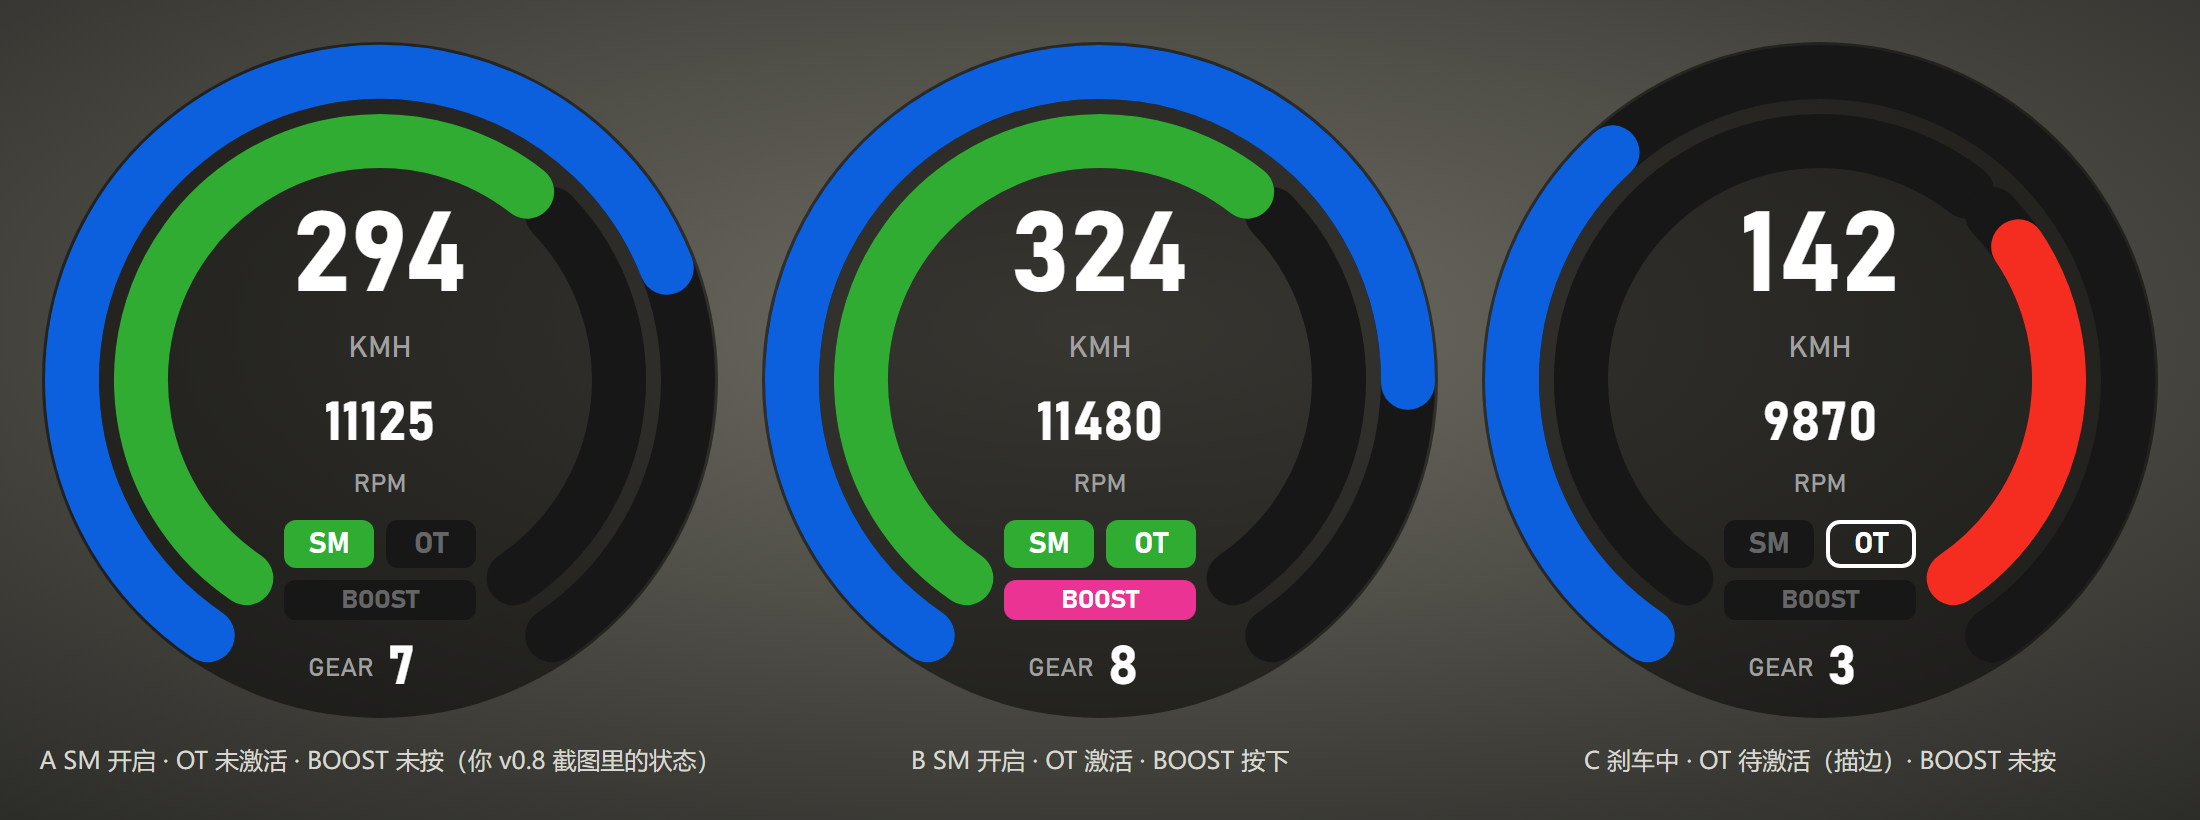
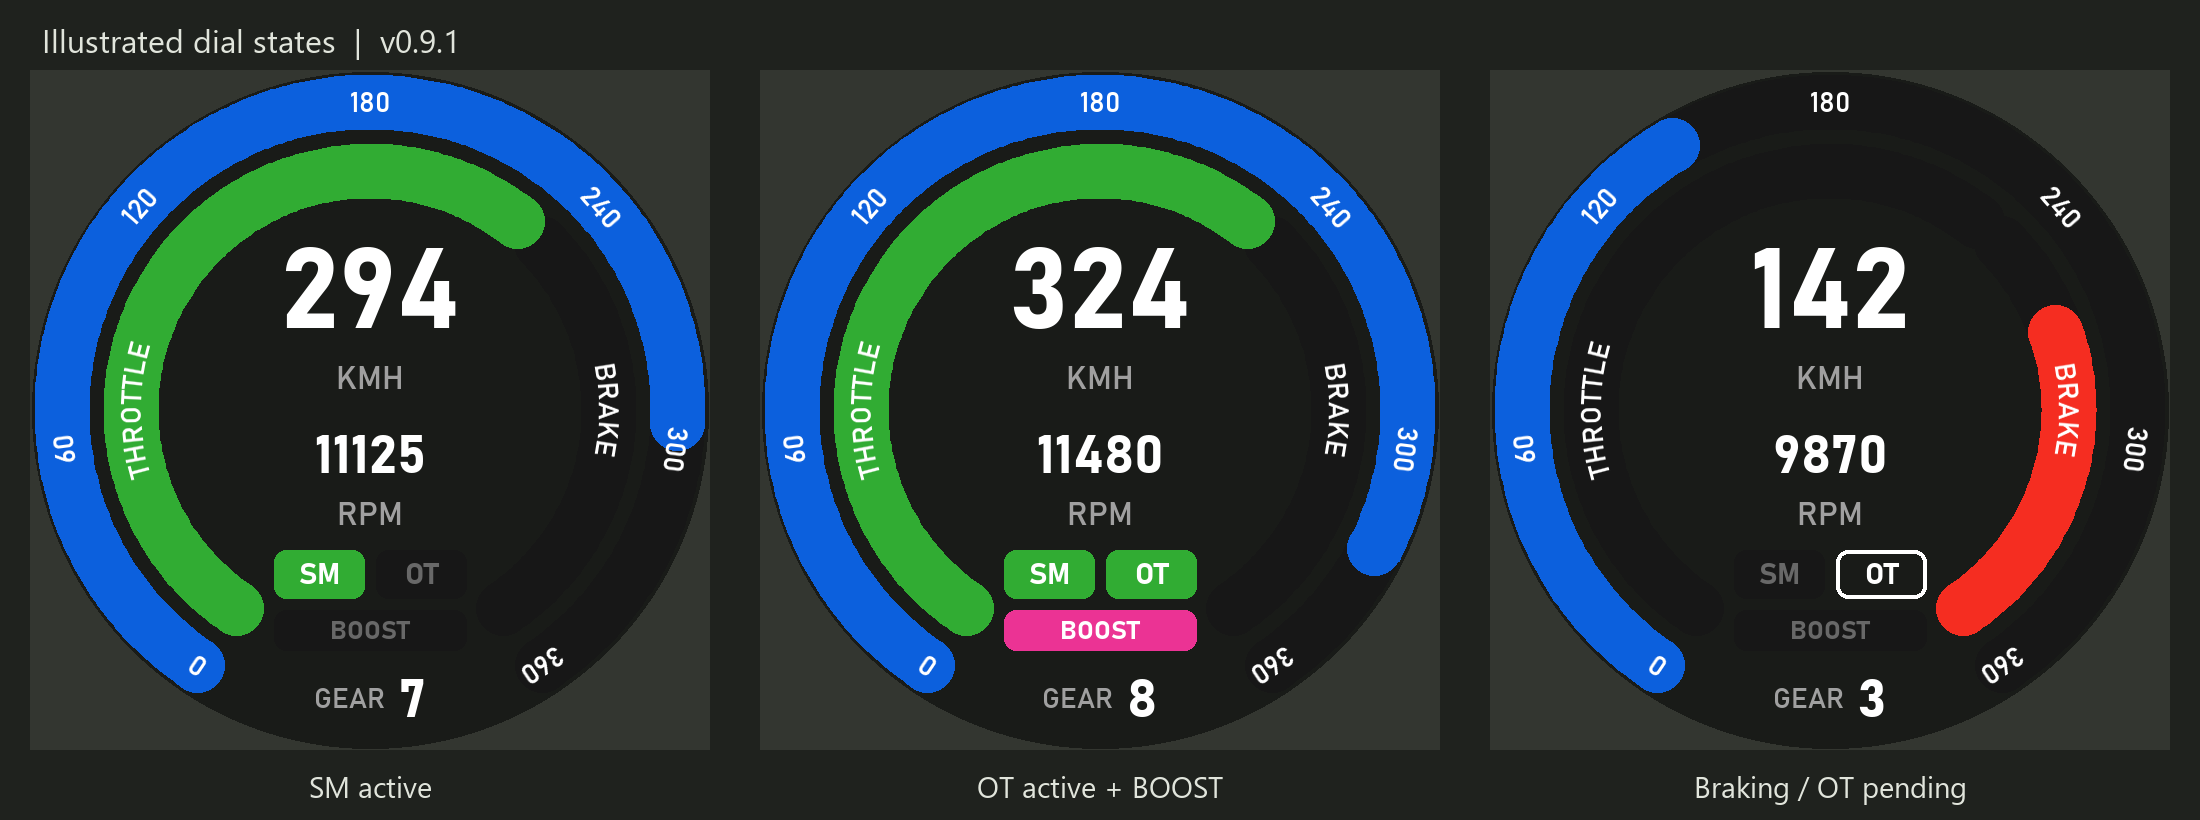
Release v0.9.1 with clearer dial labels and a 360 km/h scale

diff --git a/README.md b/README.md
@@ -8,6 +8,8 @@ Overtake and Boost. The HUD follows the camera car and can display energy data s
 
 ![demo](docs/demo.gif)
 
+*Demo recorded before the v0.9.1 dial update; the updated dial is illustrated below.*
+
 The app runs in Custom Shaders Patch (CSP). It combines a MultiViewer-style dial with the car's
 energy telemetry, so you can monitor deployment and harvesting while driving or watching a replay.
 It supports AI cars as well as the player's car and does not modify car or track files.
@@ -15,8 +17,10 @@ It supports AI cars as well as the player's car and does not modify car or track
 ## Display
 
 **Dial:** speed, RPM and gear, with a blue speed arc, green throttle arc and red brake arc.
-The layout and colours follow the MultiViewer style and are drawn in code. Three indicators show
-the 2026 systems:
+The speed scale runs from 0 to 360 km/h in steps of 60; above 360, the arc stays full while the
+central number continues to show the actual speed. Curved `THROTTLE` and `BRAKE` labels identify
+the input arcs. The layout and colours follow the MultiViewer style and are drawn in code.
+Three indicators show the 2026 systems:
 
 | Indicator | Dark | Colour states |
 | --- | --- | --- |
@@ -43,7 +47,7 @@ energy panel.
 By default, the HUD follows the **camera-focused car**. You can switch between cars in a replay
 to view their recorded data, or bind a button to keep the HUD on your own car.
 
-![badge states](docs/dial-states.png)
+![v0.9.1 dial state illustrations](docs/dial-states.png)
 
 ## 2026 regulations
 
@@ -76,12 +80,16 @@ The following describes how these systems work in the VRC Formula Alpha 2026 Pro
 
 ## Install
 
-**Release zip:** download `f1-2026-speedometer-hud-v0.9.0.zip` from the
-[v0.9.0 release](https://github.com/Zhaoyi-Fan/f1-2026-speedometer-hud/releases/tag/v0.9.0)
+**Release zip:** download `f1-2026-speedometer-hud-v0.9.1.zip` from the
+[v0.9.1 release](https://github.com/Zhaoyi-Fan/f1-2026-speedometer-hud/releases/tag/v0.9.1)
 and extract it into your Assetto Corsa root folder (the
 one with `acs.exe`). You should end up with
 `assettocorsa\apps\lua\f1_2026_speedometer_hud\manifest.ini`. Dropping the zip onto Content Manager
 also works.
+
+**Updating:** close the current game session, install the new zip over the existing app and
+allow its files to be replaced. The existing HUD settings are retained. Start a new session or
+replay and check that the settings window shows version **0.9.1**.
 
 **From source:** clone the repository and run `tools\deploy.ps1` (PowerShell), optionally
 with `-AcRoot "D:\path\to\assettocorsa"`.

diff --git a/CHANGELOG.md b/CHANGELOG.md
@@ -2,6 +2,15 @@
 
 Development and in-game testing used the VRC Formula Alpha 2026 Pro with CSP build 4116.
 
+## 0.9.1 — 2026-09-12
+
+- Changed the outer arc to 0–360 km/h, with 14-unit speed labels every 60 km/h and 180 at the top.
+  Above 360 km/h the arc stays full while the central readout continues to show the actual speed.
+- Added 14-unit curved `THROTTLE` and `BRAKE` labels, visible over both inactive tracks and active fills.
+- Set `KMH` and `RPM` labels to 16 units and `GEAR` to 14 units.
+- Gave the arc lettering, speed labels, `KMH`, `RPM` and `GEAR` a slightly heavier medium font weight.
+- Centred `GEAR` and the current gear together using their measured text widths.
+
 ## 0.9.0 — 2026-09-10 (first public pre-release)
 
 - Narrowed the SM, OT and BOOST indicators to 96 design units to prevent overlap with the ends
